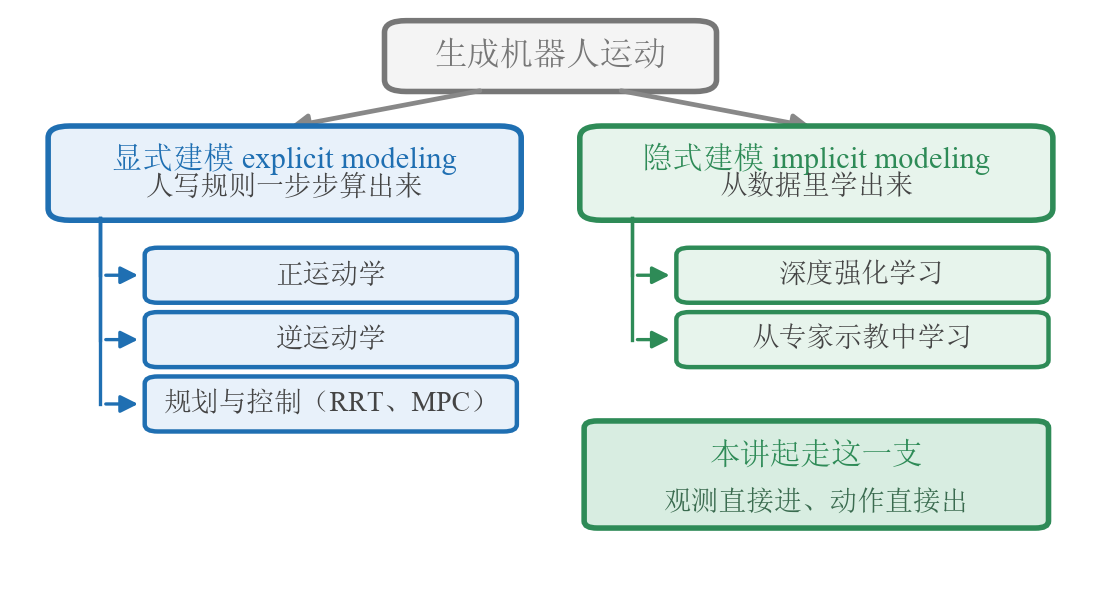
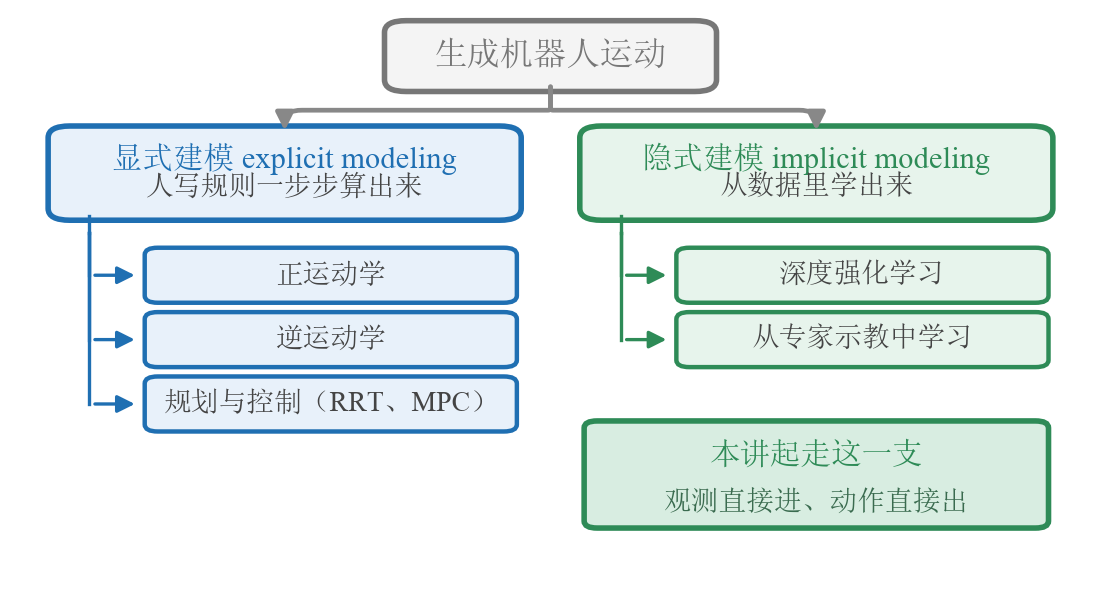
style(figures): 讲8 分类树与 on/off-policy 数据流改正交连线
- motion_taxonomy：分叉改正交，竖干移到子框外侧空白（原先贴着框左边缘跑）
- onoff_dataflow：三条入池斜线改成并列直下，抽 batch / 入池两条对齐同一竖线
- actor_critic_ddpg：按网格重排，橙色弧线改走行间横带，不再穿框

Changed region(s): [[0.247, 0.1498, 0.772, 0.2097], [0.0618, 0.3594, 0.1235, 0.6889], [0.5559, 0.3594, 0.6176, 0.5691]]

diff --git a/assets/figures/render_diagrams.py b/assets/figures/render_diagrams.py
@@ -967,24 +967,33 @@ def one_cut_three_lines():
 # 重画时把走向标出来：右支加粗、底部一条"本讲与第9–13讲全在这一支上"的落点。
 def motion_taxonomy():
     fig, ax = canvas(7.0, 3.8)
-    box(ax, 0.355, 0.865, 0.29, 0.105, GREY, [("生成机器人运动", 12, True)])
-    arrow(ax, (0.44, 0.860), (0.255, 0.795), "#888888")
-    arrow(ax, (0.56, 0.860), (0.745, 0.795), "#888888")
-
-    box(ax, 0.045, 0.645, 0.42, 0.145, BLUE,
+    root = (0.355, 0.865, 0.29, 0.105)
+    left = (0.045, 0.645, 0.42, 0.145)
+    right = (0.535, 0.645, 0.42, 0.145)
+    box(ax, *root, GREY, [("生成机器人运动", 12, True)])
+    box(ax, *left, BLUE,
         [("显式建模 explicit modeling", 11, True), ("人写规则一步步算出来", 10, False)])
-    box(ax, 0.535, 0.645, 0.42, 0.145, GREEN,
+    box(ax, *right, GREEN,
         [("隐式建模 implicit modeling", 11, True), ("从数据里学出来", 10, False)])
 
-    for xline, xbox, color, items in (
-            (0.085, 0.130, BLUE, ["正运动学", "逆运动学", "规划与控制（RRT、MPC）"]),
-            (0.575, 0.620, GREEN, ["深度强化学习", "从专家示教中学习"])):
+    # 分叉走正交：从根框底边中点下来，沿一条横带分左右，再垂直进两个子框顶边。
+    for child in (left, right):
+        connect(ax, root, "bottom", child, "top", "#888888", stub=0.035, lane=0.825)
+
+    # 每组的竖干落在子框外侧的空白里（早先取在框内 0.085，线就贴着框左边缘跑）。
+    for parent, xbox, color, items in (
+            (left, 0.130, BLUE, ["正运动学", "逆运动学", "规划与控制（RRT、MPC）"]),
+            (right, 0.620, GREEN, ["深度强化学习", "从专家示教中学习"])):
+        xline = xbox - 0.055          # 落在子框左侧的空白，不贴任何框边
         for i, text in enumerate(items):
             y = 0.500 - i * 0.110
-            ax.plot([xline, xline], [0.640, y + 0.043], color=color, linewidth=1.2)
-            arrow(ax, (xline, y + 0.043), (xbox - 0.005, y + 0.043), color, lw=1.2)
-            plain_box(ax, xbox, y, 0.335, 0.086, color)
+            child = (xbox, y, 0.335, 0.086)
+            plain_box(ax, *child, color)
             label(ax, xbox + 0.1675, y + 0.043, text, "#444444", 10)
+            ax.plot([xline, xline], [parent[1] - 0.030, y + 0.043],
+                    color=color, linewidth=1.2)
+            arrow(ax, (xline, y + 0.043), (xbox - 0.008, y + 0.043), color, lw=1.2)
+        ax.plot([xline, xline], [parent[1], parent[1] - 0.030], color=color, linewidth=1.2)
 
 
     plain_box(ax, 0.535, 0.115, 0.42, 0.175, GREEN, fill="#D8EDE1", lw=2.0)
